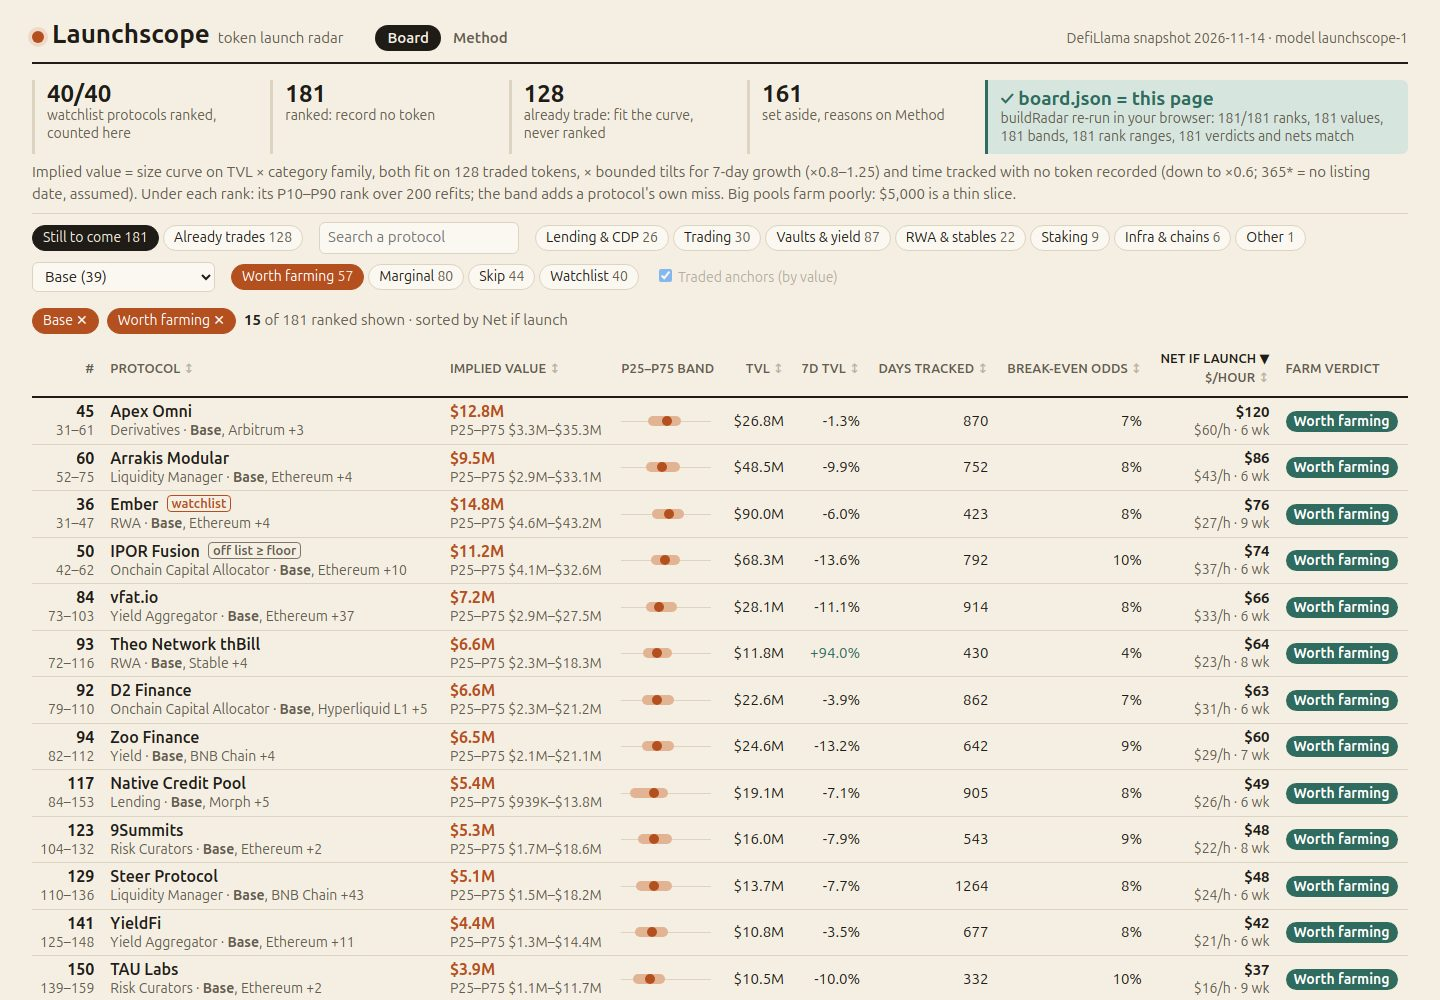
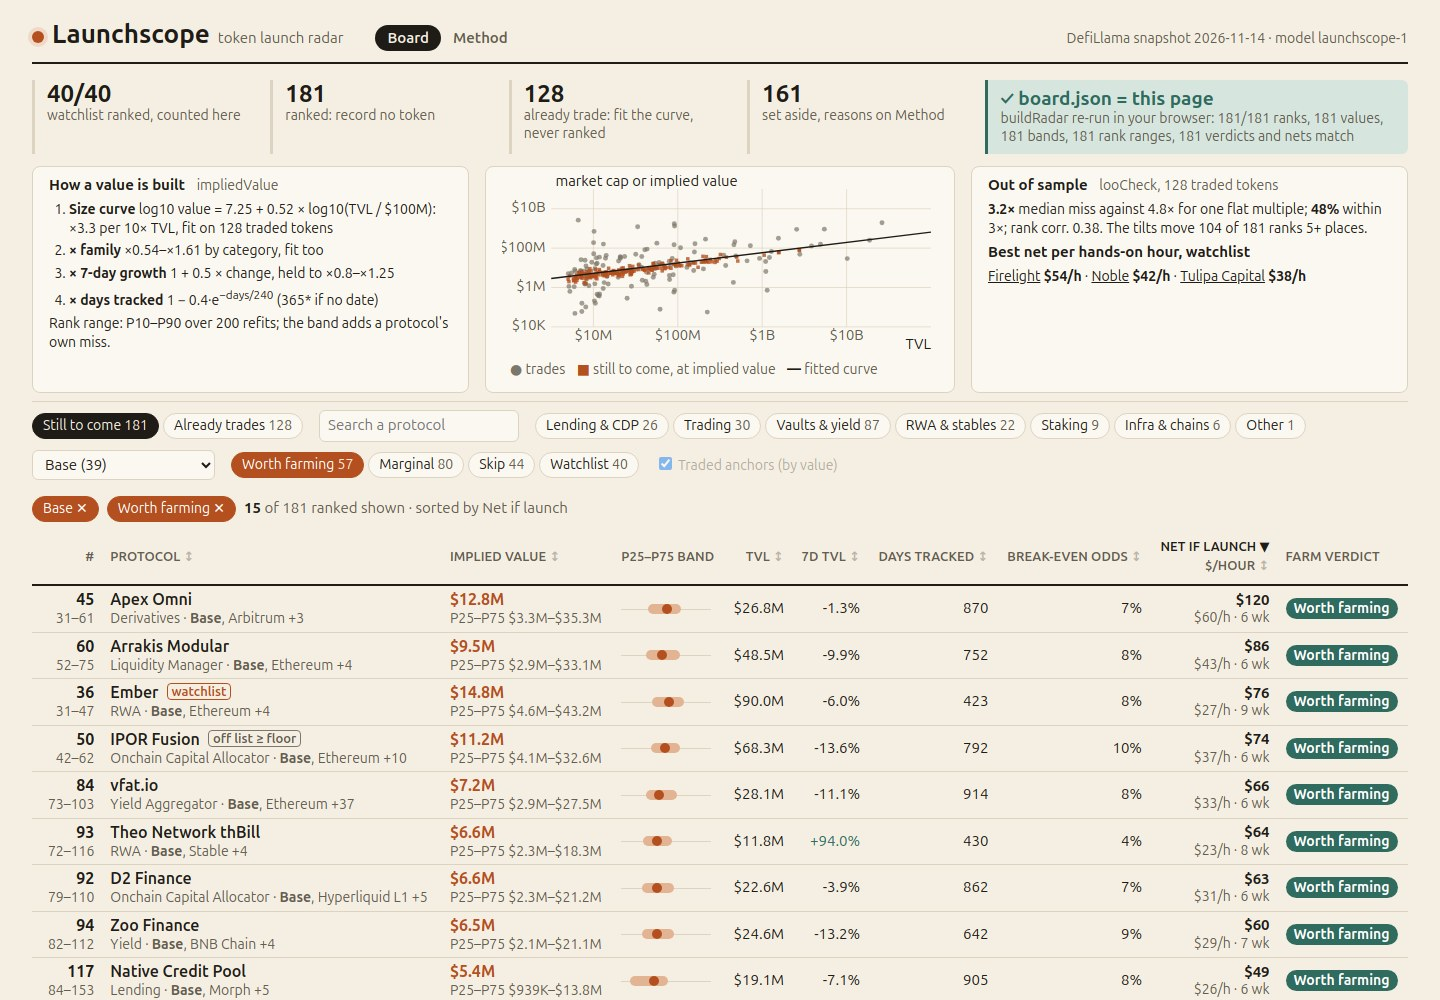
Board hero band: the formula from the fitted numbers, the market line, the out-of-sample test
Between the KPI tiles and the filters, three cards proven from the model's own
outputs: how a value is built (fitCurve's a and b, family range, growth and
seasoning bounds from MODEL), the market-line scatter (traded tokens grey,
fitted curve, ranked rows at implied value) and looCheck's median miss
against one flat multiple, share within 3x, rank correlation, the ranks the
tilts move, and the three best watchlist plans by net per hands-on hour.
Paid for by moving, not duplicating: scatterSvg(H) serves both views and
carries its legend; the board's grey sentence and the method view's slope and
priors prose became the band; comments and labels trimmed. Uncut.

diff --git a/dashboard/radar.js b/dashboard/radar.js
@@ -1,4 +1,4 @@
-/* Launchscope page: board, detail, method. At load buildRadar re-runs on the raw snapshot; each row is checked. */
+/* Launchscope page: board, detail, method; buildRadar re-runs here and each row is checked. */
 (function () {
   'use strict';
   const D = globalThis.LAUNCHSCOPE_DATA;
@@ -51,7 +51,6 @@
     history.replaceState(null, '', back);
   }
 
-  /** Family, chain, verdict, watchlist and name filters. */
   function filterRows(rows, st) {
     const q = st.q.trim().toLowerCase();
     return rows.filter((r) => (!st.fam || r.iv.fam === st.fam) && (!st.chain || r.chains.includes(st.chain)) &&
@@ -63,7 +62,7 @@
     return rows.slice().sort((a, b) => { const x = key(a), y = key(b); return (x < y ? -1 : x > y ? 1 : 0) * sign || a.rank - b.rank; });
   }
 
-  // Anchors sit in value order only, and not under a verdict, watchlist or search filter.
+  // Anchors: value order only, no verdict, watchlist or search filter.
   const anchorsOff = (st) => st.sort !== 'value' || !!(st.verdict || st.watch || st.q);
   /** Traded tokens as unranked anchors at market cap, about one per six rows. */
   function anchorsFor(shown, st) {
@@ -80,12 +79,11 @@
     return kept;
   }
 
-  // -- the board
 
   function kpis() {
     const k = M.check;
     return `<section class="kpis">
-      <div><b>${M.watch}/${S.watchlist.length}</b><span>watchlist protocols ranked, counted here</span></div>
+      <div><b>${M.watch}/${S.watchlist.length}</b><span>watchlist ranked, counted here</span></div>
       <div><b>${M.rows.length}</b><span>ranked: record no token</span></div>
       <div><b>${M.traded.length}</b><span>already trade: fit the curve, never ranked</span></div>
       <div><b>${M.R.universe.setAside.length}</b><span>set aside, reasons on Method</span></div>
@@ -93,7 +91,6 @@
     </section>`;
   }
 
-  // One log scale for all bands, so they compare at a glance.
   const lo = Math.log10(Math.min(...M.rows.map((r) => r.boot.p25))), span = Math.log10(Math.max(...M.rows.map((r) => r.boot.p75))) - lo;
   const at = (v) => Math.min(100, Math.max(0, (100 * (Math.log10(v) - lo)) / span));
   const bandBar = (r) => `<span class="bb"><i style="left:${at(r.boot.p25).toFixed(1)}%;width:${(at(r.boot.p75) - at(r.boot.p25)).toFixed(1)}%"></i><b style="left:${at(r.iv.value).toFixed(1)}%"></b></span>`;
@@ -105,7 +102,7 @@
     return `<tr class="ranked" data-slug="${esc(r.slug)}"><td class="rk"><b>${r.rank}</b><small>${r.boot.rankLo}–${r.boot.rankHi}</small></td>
       <td class="name"><a href="#p/${esc(r.slug)}">${esc(r.name)}</a>${r.watch ? '<i class="tag">watchlist</i>' : ''}${tag ? `<i class="tag grey" title="${esc(r.note)}">${tag}</i>` : ''}<small>${esc(r.category || 'no category')} · ${[on, ...r.chains.filter((c) => c !== on)].filter(Boolean).slice(0, 2).map((c) => (c === on ? `<b>${esc(L.chainName(c))}</b>` : esc(L.chainName(c)))).join(', ')}${r.chains.length > 2 ? ` +${r.chains.length - 2}` : ''}</small></td>
       <td class="val"><b>${usd(r.iv.value)}</b><small>P25–P75 ${usd(r.boot.p25)}–${usd(r.boot.p75)}</small></td><td>${bandBar(r)}</td>
-      <td class="num">${usd(r.tvl_usd)}</td><td class="num ${r.change_7d > 0 ? 'up' : ''}">${pct(r.change_7d)}</td><td class="num" title="${r.iv.days === null ? 'no listing date: 365 assumed' : ''}">${r.iv.days === null ? '365*' : r.iv.days}</td>
+      <td class="num">${usd(r.tvl_usd)}</td><td class="num ${r.change_7d > 0 ? 'up' : ''}">${pct(r.change_7d)}</td><td class="num">${r.iv.days === null ? '365*' : r.iv.days}</td>
       <td class="num">${odds(p.breakEven)}</td>${net}<td><i class="verdict v-${p.verdict}">${L.VERDICT_LABEL[p.verdict]}</i></td></tr>`;
   }
   function anchorHtml(t) {
@@ -134,8 +131,7 @@
     }
     const chip = (key, val, label, n) => `<button class="chip ${st[key] === val ? 'on' : ''}" data-k="${key}" data-v="${esc(val)}">${esc(label)} <small>${n}</small></button>`;
     const chains = Object.keys(chainCount).sort((a, b) => chainCount[b] - chainCount[a] || (a < b ? -1 : 1)).slice(0, 30);
-    $('#view').innerHTML = `${kpis()}
-      <p class="explain">Implied value = size curve on TVL × category family, both fit on ${M.traded.length} traded tokens, × bounded tilts for 7-day growth (×${L.MODEL.growthMin}–${L.MODEL.growthMax}) and time tracked with no token recorded (down to ×${1 - L.MODEL.seasonDepth}; 365* = no listing date, assumed). Under each rank: its P10–P90 rank over 200 refits; the band adds a protocol's own miss. Big pools farm poorly: $5,000 is a thin slice.</p>
+    $('#view').innerHTML = `${kpis()}${heroHtml()}
       <div class="toolbar">
         <div class="group seg">${chip('tab', '', 'Still to come', M.rows.length)}${chip('tab', 'traded', 'Already trades', M.traded.length)}</div>
         <input id="q" type="search" placeholder="Search a protocol" value="${esc(st.q)}" aria-label="Search">
@@ -183,10 +179,9 @@
     const th = (key, cls) => `<th class="${cls || ''}">${sk(key)}</th>`;
     $('#results').innerHTML = `<div class="status">${active}<span><b>${shown.length}</b> of ${M.rows.length} ranked shown${anchors.length ? `, ${anchors.length} traded anchors` : ''} · sorted by ${HEAD[st.sort]}</span></div>
       <table class="board"><thead><tr><th class="rk">#</th>${th('name')}${th('value')}<th>P25–P75 band</th>${['tvl', 'growth', 'days', 'odds'].map((k) => th(k, 'num')).join('')}<th class="num">${sk('net')}<br>${sk('perhour')}</th><th>Farm verdict</th></tr></thead>
-      <tbody>${body.join('') || '<tr><td colspan="10" class="empty">No ranked protocol matches these filters; remove a chip above.</td></tr>'}</tbody></table>`;
+      <tbody>${body.join('') || '<tr><td colspan="10" class="empty">No match; remove a chip above.</td></tr>'}</tbody></table>`;
   }
 
-  // -- the detail view
 
   /** The value as an equation: size curve x each multiplier. */
   function equationHtml(r) {
@@ -250,20 +245,37 @@
       </div>`;
   }
 
-  // -- the method view
 
-  function scatterSvg() {
-    const x = (v) => 70 + ((Math.log10(v) - 6.5) / 4.5) * 540, y = (v) => 370 - ((Math.log10(v) - 4) / 7) * 350;
+  /** The market line, H units tall; used by the board band and the method view. */
+  function scatterSvg(H) {
+    const b = H - 34, x = (v) => 70 + ((Math.log10(v) - 6.5) / 4.5) * 540, y = (v) => b - ((Math.log10(v) - 4) / 7) * (b - 20);
     let grid = '';
     const tick = (e) => ['$10K', '$100K', '$1M', '$10M', '$100M', '$1B', '$10B', '$100B'][e - 4];
-    for (let e = 7; e <= 10; e++) grid += `<line class="g" x1="${x(10 ** e)}" x2="${x(10 ** e)}" y1="20" y2="370"/><text x="${x(10 ** e)}" y="388" text-anchor="middle">${tick(e)}</text>`;
-    for (let e = 4; e <= 11; e++) grid += `<line class="g" x1="70" x2="610" y1="${y(10 ** e)}" y2="${y(10 ** e)}"/><text x="62" y="${y(10 ** e) + 4}" text-anchor="end">${tick(e)}</text>`;
+    for (let e = 7; e <= 10; e++) grid += `<line class="g" x1="${x(10 ** e)}" x2="${x(10 ** e)}" y1="20" y2="${b}"/><text x="${x(10 ** e)}" y="${b + 18}" text-anchor="middle">${tick(e)}</text>`;
+    for (let e = 4; e <= 11; e += H < 300 ? 2 : 1) grid += `<line class="g" x1="70" x2="610" y1="${y(10 ** e)}" y2="${y(10 ** e)}"/><text x="62" y="${y(10 ** e) + 5}" text-anchor="end">${tick(e)}</text>`;
     const traded = M.traded.map((t) => `<circle class="t" cx="${x(t.tvl_usd).toFixed(1)}" cy="${y(t.mcap_usd).toFixed(1)}" r="3.5"/>`).join('');
     const ranked = M.rows.map((r) => `<rect class="r" x="${(x(r.tvl_usd) - 2.5).toFixed(1)}" y="${(y(r.iv.value) - 2.5).toFixed(1)}" width="5" height="5"/>`).join('');
     const line = (tvl) => 10 ** (M.fit.a + M.fit.b * (Math.log10(tvl) - L.MODEL.centerLogTvl));
-    return `<svg class="scatter" viewBox="0 0 620 404" role="img" aria-label="Fit of market cap on TVL">${grid}${traded}${ranked}
+    return `<svg class="scatter" viewBox="0 0 620 ${H}" role="img" aria-label="Fit of market cap on TVL">${grid}${traded}${ranked}
       <line class="fit" x1="${x(10 ** 6.5)}" y1="${y(line(10 ** 6.5))}" x2="${x(1e11)}" y2="${y(line(1e11))}"/>
-      <text class="lab" x="610" y="402" text-anchor="end">TVL (log scale)</text><text class="lab" x="76" y="16">market cap, or implied value (log scale)</text></svg>`;
+      <text class="lab" x="610" y="${H - 2}" text-anchor="end">TVL</text><text class="lab" x="76" y="16">market cap or implied value</text></svg>
+      <p class="legend"><b class="t">●</b> trades <b class="r">■</b> still to come, at implied value <b>—</b> fitted curve</p>`;
+  }
+
+  /** Board band: formula from the fitted numbers, market line, out-of-sample test. */
+  function heroHtml() {
+    const f = M.fit, m = L.MODEL, loo = M.R.loo, fam = Object.values(f.fam).map((o) => (10 ** o).toFixed(2));
+    const best = M.rows.filter((r) => r.watch).sort((p, q) => q.plan.perHour - p.plan.perHour).slice(0, 3);
+    return `<section class="hero"><div class="card"><h2>How a value is built <small>impliedValue</small></h2><ol>
+      <li><b>Size curve</b> log10 value = ${f.a.toFixed(2)} + ${f.b.toFixed(2)} × log10(TVL / $100M): ×${(10 ** f.b).toFixed(1)} per 10× TVL, fit on ${M.traded.length} traded tokens</li>
+      <li><b>× family</b> ×${Math.min(...fam)}–×${Math.max(...fam)} by category, fit too</li>
+      <li><b>× 7-day growth</b> 1 + ${m.growthWeight} × change, held to ×${m.growthMin}–×${m.growthMax}</li>
+      <li><b>× days tracked</b> 1 − ${m.seasonDepth}·e<sup>−days/${m.seasonDays}</sup> (365* if no date)</li></ol>
+      <p>Rank range: P10–P90 over 200 refits; the band adds a protocol's own miss.</p></div>
+      <div class="card">${scatterSvg(250)}</div>
+      <div class="card"><h2>Out of sample <small>looCheck, ${loo[3].n} traded tokens</small></h2>
+      <p><b>${loo[3].medianMiss.toFixed(1)}×</b> median miss against ${loo[0].medianMiss.toFixed(1)}× for one flat multiple; <b>${Math.round(loo[3].within3x * 100)}%</b> within 3×; rank corr. ${loo[3].rankCorr.toFixed(2)}. The tilts move ${M.R.moves.five} of ${M.rows.length} ranks 5+ places.</p>
+      <h2>Best net per hands-on hour, watchlist</h2><p>${best.map((r) => `<a href="#p/${esc(r.slug)}">${esc(r.name)}</a> <b>${usd(r.plan.perHour)}/h</b>`).join(' · ')}</p></div></section>`;
   }
 
   function renderMethod() {
@@ -276,22 +288,20 @@
     u.setAside.forEach((s) => { const k = s.reason.startsWith('shares') ? 'shares a name with a protocol that records a token' : s.reason.split(/[:,]/)[0]; why[k] = (why[k] || 0) + 1; });
     const ranked = M.rows.length, traded = M.traded.length, aside = u.setAside.length;
     $('#view').innerHTML = `<div class="method">
-      <section class="card"><h2>The fit: ${traded} traded tokens, market cap against TVL</h2>${scatterSvg()}
-        <p class="legend"><b class="t">●</b> traded token <b class="r">■</b> ranked protocol at its implied value <b>—</b> size curve: log10 value = ${f.a.toFixed(2)} + ${f.b.toFixed(2)} × log10(TVL / $100M)</p>
-        <p>A token's market cap grows with TVL at a slope of ${f.b.toFixed(2)}: ten times the TVL is worth ${(10 ** f.b).toFixed(1)} times the value, so small protocols carry a higher multiple than large ones.</p>
+      <section class="card"><h2>The fit: ${traded} traded tokens, market cap against TVL</h2>${scatterSvg(404)}
         <div class="judge"><h2>Note to the judge</h2><ol>
           <li>Working radar: <code>deriveAll</code> runs <code>buildRadar</code> on the raw snapshot in this browser; <code>selectUniverse</code> ranks ${M.watch} of ${S.watchlist.length} watchlist protocols plus ${ranked - M.watch} more; every row is checked against board.json (${M.check.ok ? 'all match' : 'see the board'}).</li>
-          <li>Value model: <code>impliedValue</code> uses TVL, category family, 7-day change and days since listing, never a name; <code>fitCurve</code> fits it on traded tokens, <code>looCheck</code> tests it, <code>bootstrapRanks</code> gives bands and rank ranges; the growth and seasoning tilts move ${M.R.moves.five} of ${ranked} ranks 5+ places.</li>
+          <li>Value model: <code>impliedValue</code> uses TVL, category family, 7-day change and days since listing, never a name; <code>fitCurve</code> fits it on traded tokens, <code>looCheck</code> tests it, <code>bootstrapRanks</code> gives bands and rank ranges.</li>
           <li>Farm plans: <code>farmPlan</code> sets chain, deposit, hold and stop from each row's data, with cost, time and break-even odds.</li>
           <li>Page: <code>filterRows</code>, <code>sortRows</code>, <code>renderDetail</code>; state lives in the URL hash.</li>
         </ol></div></section>
       <section class="card"><h2>Out of sample: each traded token priced by a fit that never saw it</h2>
         <table class="mini"><thead><tr><th>Model</th><th class="num">Median miss</th><th class="num">Mean |log miss|</th><th class="num">Within 3×</th><th class="num">Rank corr.</th></tr></thead><tbody>${looRows}</tbody></table>
-        <p>Size curve and family earn their place. Growth and seasoning move the median miss ${loo[2].medianMiss.toFixed(2)}×→${loo[3].medianMiss.toFixed(2)}×, within 3× ${Math.round(loo[2].within3x * 100)}→${Math.round(loo[3].within3x * 100)}%, mean |log miss| ${loo[2].meanLogMiss.toFixed(3)}→${loo[3].meanLogMiss.toFixed(3)}: no real gain (${M.traded.filter((t) => t.change_7d < 0).length} of ${traded} traded tokens lost TVL this week; a traded token's age is not time without a token). So both are bounded priors: growth tilts value by half the 7-day change (×${L.MODEL.growthMin}–×${L.MODEL.growthMax}); seasoning discounts a new protocol up to ${L.MODEL.seasonDepth * 100}%, fading over ${L.MODEL.seasonDays} days. They move ${M.R.moves.five} of ${ranked} ranks by 5+ places, ${M.R.moves.ten} by 10+. Rank corr. tests the ranking itself (Spearman's rho inside 8 held-out folds): about ${loo[0].rankCorr.toFixed(1)} for every variant, so order comes from TVL.</p>
+        <p>Size curve and family earn their place; growth and seasoning do not (${M.traded.filter((t) => t.change_7d < 0).length} of ${traded} traded tokens lost TVL this week; a traded token's age is not time without a token), so both are bounded priors. They move ${M.R.moves.five} of ${ranked} ranks 5+ places, ${M.R.moves.ten} by 10+. Rank corr. (Spearman inside 8 held-out folds) is about ${loo[0].rankCorr.toFixed(1)} for every variant: order comes from TVL.</p>
         <h2>Category family offsets <small>mean miss, each capped at 10×, shrunk by ${L.MODEL.familyShrinkK} pseudo-tokens (traded count)</small></h2><p>${fams}</p>
         <h2>From ${S.protocols.length} protocols to ${ranked} ranks</h2>
         <p>${traded} trade (fit and anchors) · ${u.recorded} record a token with no market cap (not ranked) · ${ranked + aside} record no token: ${ranked} ranked, ${aside} set aside as ${Object.keys(why).map((k) => `${esc(k)} (${why[k]})`).join(', ')}.</p>
-        <h2>Farm verdicts</h2><p>Worth farming at break-even odds of ${A.farmOdds * 100}% or less (it pays if 1 hold in ${1 / A.farmOdds} sees a launch), marginal to ${A.marginalOdds * 100}%, else skip. A 7-day TVL fall past ${A.capDrop}% caps it at marginal (${M.rows.filter((r) => r.plan.capped).length} row here).</p></section></div>`;
+        <h2>Farm verdicts</h2><p>Worth farming at break-even odds ≤${A.farmOdds * 100}% (pays if 1 hold in ${1 / A.farmOdds} sees a launch), marginal ≤${A.marginalOdds * 100}%, else skip; a 7-day TVL fall past ${A.capDrop}% caps it at marginal (${M.rows.filter((r) => r.plan.capped).length} row).</p></section></div>`;
   }
 
   function route() {

diff --git a/dashboard/style.css b/dashboard/style.css
@@ -11,7 +11,7 @@
 html { background: var(--paper); }
 body { margin: 0 auto; max-width: 1440px; padding: 0 32px 24px; color: var(--ink); font: 15px/1.45 var(--sans); font-variant-numeric: tabular-nums; }
 a { color: inherit; }
-small, th, .brand, .tabs a, .asof, .kpis span, .explain, .toggle, .status, .empty, .crumb, .eq i, .facts span, .totals span, .tile span,
+small, th, .brand, .tabs a, .asof, .kpis span, .toggle, .status, .empty, .crumb, .eq i, .facts span, .totals span, .tile span,
 .steps .when, .assume, .legend, .foot { color: var(--muted); }
 small, .facts span, .totals span, .tile span, .assume, .legend, .foot, .toggle, .mini td, .mini th, .steps td, .honesty { font-size: 14px; }
 h1 { font-size: 32px; line-height: 1.1; margin: 0; }
@@ -20,7 +20,7 @@ h2 small { font-weight: 400; margin-left: 8px; }
 code { font: 14px var(--mono); background: var(--accent-soft); padding: 0 4px; border-radius: 3px; }
 table { border-collapse: collapse; width: 100%; }
 th { text-align: left; font-size: 13px; text-transform: uppercase; letter-spacing: 0.01em; font-weight: 600; padding: 8px; border-bottom: 2px solid var(--ink); white-space: nowrap; }
-[data-s] { cursor: pointer; }
+[data-s], tr.ranked { cursor: pointer; }
 [data-s]:not(.sorted)::after { content: " ↕"; opacity: 0.4; }
 .sorted, .status b { color: var(--ink); }
 td { padding: 4px 8px; border-bottom: 1px solid var(--rule); }
@@ -39,7 +39,13 @@ td { padding: 4px 8px; border-bottom: 1px solid var(--rule); }
 .kpis .check { border-left-color: var(--plan); background: var(--plan-soft); padding: 8px 12px; border-radius: 0 6px 6px 0; }
 .kpis .check b { font-size: 19px; color: var(--plan); }
 .kpis .check.bad, .kpis .check.bad b { border-color: var(--red); background: #f2d9d3; color: var(--red); }
-.explain { margin: 8px 0; }
+.hero { display: grid; grid-template-columns: 1fr 470px 1fr; gap: 16px; margin: 12px 0 8px; }
+.hero .card { padding: 8px 16px; }
+.hero h2 { margin: 4px 0; font-size: 15px; }
+.hero ol { margin: 0; padding-left: 20px; }
+.hero li, .hero p { margin: 4px 0; font-size: 14px; line-height: 1.35; }
+.hero .scatter { font-size: 21px; }
+.legend { margin: 0; }
 .toolbar, .status, .group { display: flex; flex-wrap: wrap; align-items: center; gap: 8px; }
 .toolbar { gap: 8px 16px; padding: 8px 0; border-top: 1px solid var(--rule); }
 .toolbar input, .toolbar select, .chip { font: inherit; border: 1px solid var(--rule); background: var(--card); color: var(--ink); }
@@ -58,7 +64,6 @@ td { padding: 4px 8px; border-bottom: 1px solid var(--rule); }
 .board .name a { font-weight: 600; text-decoration: none; }
 .board .val b { color: var(--accent); }
 .board .val, .board .name a { white-space: nowrap; }
-.board tr.ranked { cursor: pointer; }
 .board tr.anchor td, .board tr.anchor .val b, .board .neg b { color: var(--grey); }
 .board tr.anchor td { background: #efe9dd; font-size: 14px; }
 .board .up { color: var(--plan); }

diff --git a/dashboard/model.js b/dashboard/model.js
@@ -1,7 +1,5 @@
-/* Launchscope model: snapshot in, board out. main.ts runs it for board.json; the page re-runs buildRadar.
- *   value = 10^(a + b * log10(TVL / $100M) + family offset) * growthTilt * seasonTilt
- * a, b: least squares on logs over the traded tokens (market cap vs TVL); family offset: shrunk mean miss;
- * tilts: bounded priors for 7-day growth and days with no token. No value is set by a name. */
+/* Launchscope model: snapshot in, board out; main.ts and the page both run buildRadar. No value is set by a name:
+ *   value = 10^(a + b * log10(TVL / $100M) + family offset) * growthTilt * seasonTilt */
 (function (root) {
   'use strict';
 
@@ -9,17 +7,17 @@
     version: 'launchscope-1',
     centerLogTvl: 8, // the curve is centred at $100M of TVL
     familyShrinkK: 8, // pseudo-tokens pulling each family offset toward zero
-    growthWeight: 0.5, // +10% TVL in 7 days tilts value by +5%...
-    growthMin: 0.8, // ...within x0.80 to x1.25
+    growthWeight: 0.5, // +10% TVL in 7 days: +5% value, within x0.8-x1.25
+    growthMin: 0.8,
     growthMax: 1.25,
-    seasonDepth: 0.4, // a protocol tracked for 0 days is discounted 40%...
-    seasonDays: 240, // ...and the discount fades with this time constant (days)
+    seasonDepth: 0.4, // 0 days tracked: -40%, fading over 240 days
+    seasonDays: 240,
     unknownDays: 365, // no listed_at: assume one year
     bootstrapRuns: 200,
     seed: 20261114,
   };
 
-  // Farm-plan assumptions, stated on every plan (the snapshot carries no gas, fee or yield figures).
+  // Farm-plan assumptions (the snapshot has no gas, fee or yield figures).
   const ASSUME = {
     tbillRate: 0.04, // a year, what the capital would earn instead
     depositYield: { lend: 0.03, vault: 0.03, rwa: 0.035, stake: 0.03, trade: 0.02 }, // what the deposit itself earns
@@ -80,7 +78,7 @@
 
   // -- families and the universe
 
-  // DefiLlama's categories in eight families: one category alone holds too few traded tokens to fit.
+  // Eight families: one category alone has too few traded tokens to fit.
   const FAMILY_OF = {};
   for (const [fam, cats] of Object.entries({
     lend: 'Lending|CDP|CDP Manager|Uncollateralized Lending|Collateral Markets|Collateral Management',
@@ -267,7 +265,7 @@
     }));
   }
 
-  /** Same-family traded peers nearest in TVL, within 10x of the curve (wilder is often a parent's cap). */
+  /** Same-family traded peers nearest in TVL, within 10x of the curve. */
   function nearestPeers(p, traded, k, fit, asOf) {
     const fam = familyOf(p.category), x = log10(p.tvl_usd);
     const typical = traded.filter((t) => Math.abs(log10(t.mcap_usd / impliedValue(t, fit, asOf).value)) <= 1);

diff --git a/dashboard/index.html b/dashboard/index.html
@@ -13,7 +13,7 @@
   <p id="asof" class="asof"></p>
 </header>
 <main id="view" tabindex="-1" aria-live="polite"></main>
-<footer class="foot">Implied values are our model's claim, never make.fun's. "Records no token" on DefiLlama is not proof of none; nothing here says if or when a token launches. Not investment advice.</footer>
+<footer class="foot">Implied values are our model's claim, never make.fun's; nothing here says if or when a token launches. Not investment advice.</footer>
 <script src="../data.js"></script>
 <script src="model.js"></script>
 <script src="radar.js"></script>
